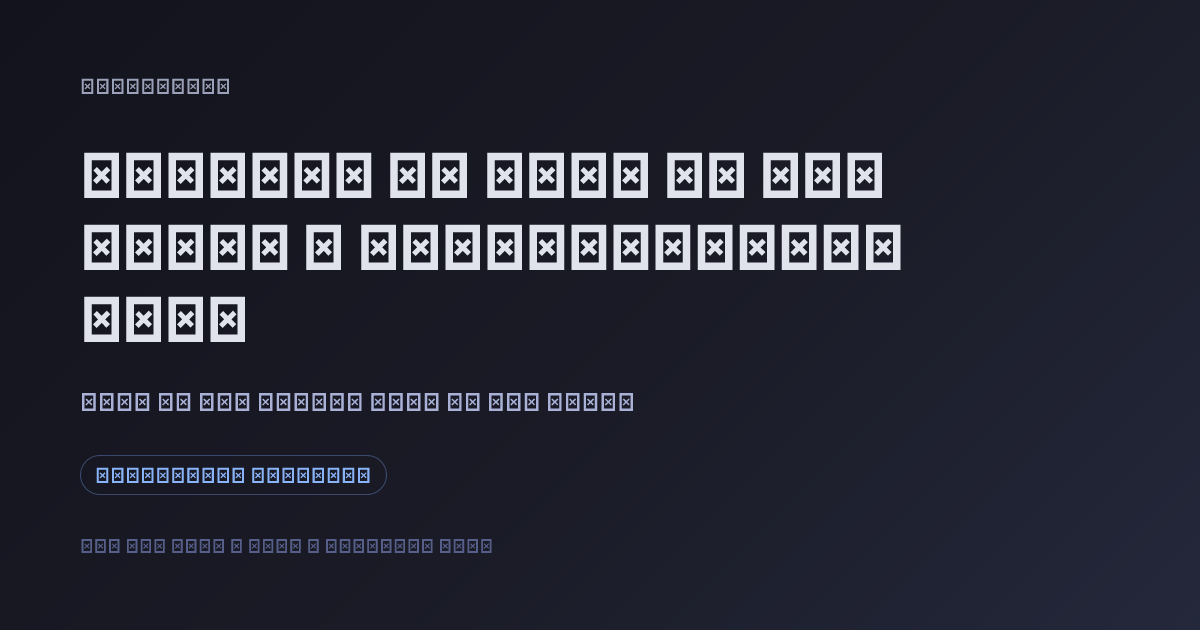
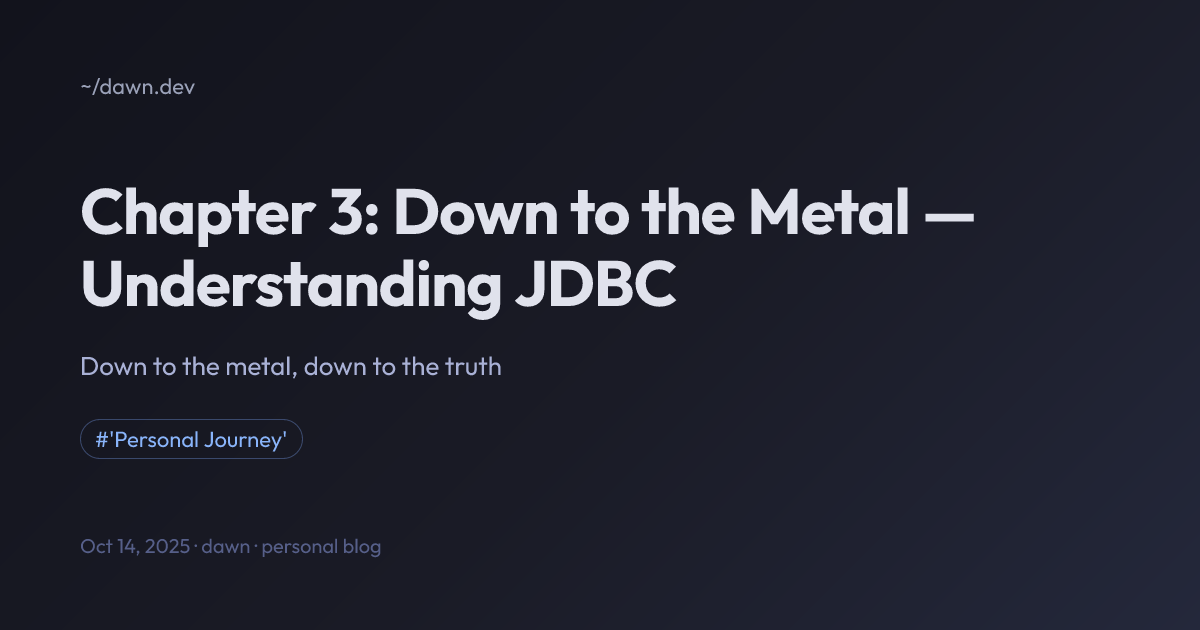
feat(workbench): packet speed button, save step as image, per-lesson OG cards
Also loads the latin font subset in build-og so the cards render text instead of tofu.

diff --git a/src/lib/simulator/export-image.ts b/src/lib/simulator/export-image.ts
@@ -1,0 +1,107 @@
+/**
+ * Turns the live stage SVG into a PNG the learner can save or share.
+ *
+ * The stage is styled partly by CSS rules that only exist in the page, so a plain serialised SVG would lose
+ * its colours once it is drawn on its own. We copy the computed values of the properties that matter onto a
+ * clone first, then paint it on a canvas under a small caption strip.
+ */
+
+const COPIED_PROPS = [
+  'fill',
+  'fill-opacity',
+  'stroke',
+  'stroke-width',
+  'stroke-opacity',
+  'stroke-dasharray',
+  'stroke-linecap',
+  'stroke-linejoin',
+  'opacity',
+  'font-family',
+  'font-size',
+  'font-weight',
+  'letter-spacing',
+  'text-anchor',
+  'display',
+  'visibility',
+] as const;
+
+interface ExportOptions {
+  title: string;
+  caption: string;
+  scale?: number;
+}
+
+function inlineStyles(source: Element, clone: Element): void {
+  const computed = getComputedStyle(source);
+  const target = clone as SVGElement;
+  for (const prop of COPIED_PROPS) target.style.setProperty(prop, computed.getPropertyValue(prop));
+  const srcKids = source.children;
+  const cloneKids = clone.children;
+  for (let i = 0; i < srcKids.length && i < cloneKids.length; i++) inlineStyles(srcKids[i], cloneKids[i]);
+}
+
+function loadImage(url: string): Promise<HTMLImageElement> {
+  return new Promise((resolve, reject) => {
+    const img = new Image();
+    img.onload = () => resolve(img);
+    img.onerror = () => reject(new Error('The diagram could not be turned into an image'));
+    img.src = url;
+  });
+}
+
+export async function stageToPng(svg: SVGSVGElement, { title, caption, scale = 2 }: ExportOptions): Promise<Blob> {
+  const rect = svg.getBoundingClientRect();
+  const width = Math.round(rect.width);
+  const height = Math.round(rect.height);
+  if (width === 0 || height === 0) throw new Error('The diagram is not visible');
+
+  const clone = svg.cloneNode(true) as SVGSVGElement;
+  inlineStyles(svg, clone);
+  clone.setAttribute('width', String(width));
+  clone.setAttribute('height', String(height));
+  clone.setAttribute('xmlns', 'http://www.w3.org/2000/svg');
+
+  const page = getComputedStyle(document.body);
+  const background = page.getPropertyValue('--bg').trim() || page.backgroundColor || '#18181b';
+  const foreground = page.getPropertyValue('--fg').trim() || '#f4f4f5';
+  const dim = page.getPropertyValue('--fg-dim').trim() || '#a1a1aa';
+  const accent = page.getPropertyValue('--accent').trim() || '#e11d48';
+
+  const url = URL.createObjectURL(new Blob([new XMLSerializer().serializeToString(clone)], { type: 'image/svg+xml' }));
+  try {
+    const img = await loadImage(url);
+    const strip = 56;
+    const canvas = document.createElement('canvas');
+    canvas.width = width * scale;
+    canvas.height = (height + strip) * scale;
+    const ctx = canvas.getContext('2d');
+    if (!ctx) throw new Error('Canvas is not available');
+    ctx.scale(scale, scale);
+
+    ctx.fillStyle = background;
+    ctx.fillRect(0, 0, width, height + strip);
+    ctx.drawImage(img, 0, 0, width, height);
+
+    ctx.fillStyle = accent;
+    ctx.fillRect(0, height, width, 2);
+    const mono = 'ui-monospace, SFMono-Regular, Menlo, Consolas, monospace';
+    ctx.textBaseline = 'middle';
+    ctx.textAlign = 'left';
+    ctx.fillStyle = foreground;
+    ctx.font = `700 15px ${mono}`;
+    ctx.fillText(title, 18, height + strip / 2 - 8);
+    ctx.fillStyle = dim;
+    ctx.font = `500 12px ${mono}`;
+    ctx.fillText(caption, 18, height + strip / 2 + 11);
+    ctx.textAlign = 'right';
+    ctx.fillStyle = accent;
+    ctx.font = `700 13px ${mono}`;
+    ctx.fillText('dawn.io.vn', width - 18, height + strip / 2);
+
+    return await new Promise<Blob>((resolve, reject) =>
+      canvas.toBlob((b) => (b ? resolve(b) : reject(new Error('PNG encoding failed'))), 'image/png'),
+    );
+  } finally {
+    URL.revokeObjectURL(url);
+  }
+}

diff --git a/src/components/lab/architecture/SceneRenderer.tsx b/src/components/lab/architecture/SceneRenderer.tsx
@@ -40,6 +40,8 @@ export default function SceneRenderer({ lessonId, scenes }: Props) {
     const fitBtn = document.getElementById('fit') as HTMLElement | null;
     const replayBtn = document.getElementById('replay') as HTMLElement | null;
     const pauseBtn = document.getElementById('pause') as HTMLElement | null;
+    const speedBtn = document.getElementById('speed') as HTMLElement | null;
+    const speedLabel = document.getElementById('speed-label') as HTMLElement | null;
 
     const updatePauseUI = (isPaused: boolean) => {
       if (!pauseBtn) return;
@@ -111,9 +113,49 @@ export default function SceneRenderer({ lessonId, scenes }: Props) {
       updatePauseUI(engine.paused);
     };
 
+    // Packet speed cycles 1× → 2× → 0.5× and is kept while the learner changes steps.
+    const SPEEDS = [1, 2, 0.5];
+    const handleSpeed = () => {
+      if (!engine) return;
+      const next = SPEEDS[(SPEEDS.indexOf(engine.speed) + 1) % SPEEDS.length];
+      engine.speed = next;
+      if (speedLabel) speedLabel.textContent = `${next}×`;
+      speedBtn?.setAttribute('aria-label', `Packet speed: ${next}×`);
+      speedBtn?.classList.toggle('is-active', next !== 1);
+      window.umami?.track('workbench-speed', { lesson: lessonId, speed: next, step: currentIdx + 1 });
+    };
+
+    // "Save this step as an image": the module is fetched on first use, so it costs nothing up front.
+    const snapshotBtn = document.getElementById('snapshot') as HTMLButtonElement | null;
+    const handleSnapshot = async () => {
+      const svg = el.querySelector<SVGSVGElement>('svg.stage-svg');
+      if (!svg || !snapshotBtn) return;
+      snapshotBtn.disabled = true;
+      try {
+        const { stageToPng } = await import('@/lib/simulator/export-image');
+        const title = document.title.split(/\s[|·–-]\s/)[0].trim() || lessonId;
+        const blob = await stageToPng(svg, {
+          title,
+          caption: `Step ${currentIdx + 1} of ${scenes.length} · ${window.location.pathname}`,
+        });
+        const a = document.createElement('a');
+        a.href = URL.createObjectURL(blob);
+        a.download = `${lessonId}-step-${currentIdx + 1}.png`;
+        a.click();
+        setTimeout(() => URL.revokeObjectURL(a.href), 1000);
+        window.umami?.track('workbench-snapshot', { lesson: lessonId, step: currentIdx + 1 });
+      } catch (err) {
+        console.error('[SceneRenderer] snapshot failed:', err);
+      } finally {
+        snapshotBtn.disabled = false;
+      }
+    };
+
     fitBtn?.addEventListener('click', handleFit);
+    snapshotBtn?.addEventListener('click', handleSnapshot);
     replayBtn?.addEventListener('click', handleReplay);
     pauseBtn?.addEventListener('click', handlePause);
+    speedBtn?.addEventListener('click', handleSpeed);
 
     // Theme sync
     const observer = new MutationObserver(() => engine?.retheme());
@@ -127,6 +169,8 @@ export default function SceneRenderer({ lessonId, scenes }: Props) {
       fitBtn?.removeEventListener('click', handleFit);
       replayBtn?.removeEventListener('click', handleReplay);
       pauseBtn?.removeEventListener('click', handlePause);
+      speedBtn?.removeEventListener('click', handleSpeed);
+      snapshotBtn?.removeEventListener('click', handleSnapshot);
       observer.disconnect();
       if (engine) {
         try {

diff --git a/src/lib/simulator/stage/engine.ts b/src/lib/simulator/stage/engine.ts
@@ -87,6 +87,8 @@ export class StageEngine {
   host: HTMLElement;
   svg: SVGSVGElement;
   paused = false;
+  /** Packet speed multiplier (1 = normal); step transitions are not affected. */
+  speed = 1;
   destroyed = false;
   rafId = 0;
   resizeObserver: ResizeObserver | null = null;
@@ -805,6 +807,6 @@ export class StageEngine {
     }
 
     if (this.camera.blend && !this.anim) this.camera.set(this.camera.cam);
-    if (!this.paused) this.traffic.step(dt);
+    if (!this.paused) this.traffic.step(dt * this.speed);
   }
 }

diff --git a/src/scripts/lab/architecture/workbench.ts b/src/scripts/lab/architecture/workbench.ts
@@ -423,6 +423,9 @@ function initSimWorkbench() {
       e.preventDefault();
       document.getElementById('pause')?.click();
     }
+    if (e.key === 's' || e.key === 'S') {
+      document.getElementById('speed')?.click();
+    }
     if (e.key === '0') {
       document.getElementById('fit')?.click();
     }
